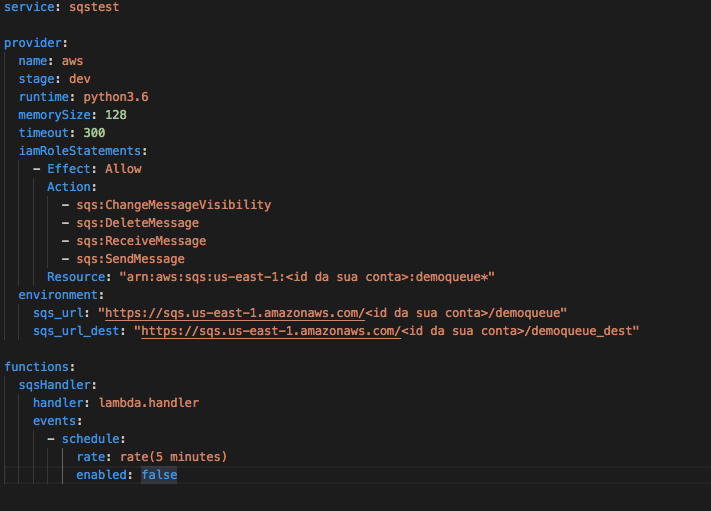
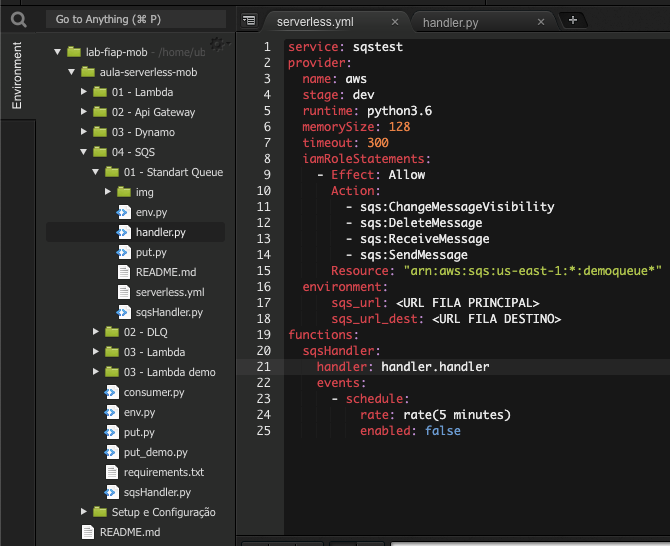
04 SQS 01 Standart Queue

Changed region(s): [[0.0, 0.0, 0.9851, 0.998], [0.5672, 0.9687, 1.0, 1.0]]

diff --git a/04 - SQS/01 - Standart Queue/README.md b/04 - SQS/01 - Standart Queue/README.md
@@ -5,28 +5,32 @@
 ![img/sqs01.png](img/sqs01.png)
 2. Copie o ARN da sua fila. É a terceira informação da sua aba 'Detalhes' quando a fila esta selecionada.
 ### Enviando dados para a fila
-1. 
-
+1. No terminal do IDE criado no cloud9 execute o comando `cd ~/environment/aula-serverless-mob/04\ -\ SQS/01\ -\ Standart\ Queue/` para entrar na pasta que fara este exercicio.
+2. Altere o arquivo put.py adicionando a URL da fila do sqs que criou nos passos anteriores
+![img/sendtoqueue01.png](img/sendtoqueue01.png)
+3. Execute o comando `python3 put.py` no terminal para colocar 3000 mensagens na fila.
+![alt](img/sendtoqueue02.png)
 
 ### Consumindo SQS 
 
 1. Cria mais uma fila sqs com o mesmo nome da anterior com o sulfixo '_dest'
-2. Crie uma pasta chamada 'lambda'
-3. Entre na pasta 'lambda'
-4. Crie um arquivo 'serverless.yml' e coloque o seguinte conteudo:
+2. Execute o comando no terminal `sls create --template "aws-python3"`
+3. Altere o arquivo 'serverless.yml' e coloque o seguinte conteudo, não esqueça de preencher as duas URLs das filas como descrito:
 ![img/lambda-01.png](img/lambda-01.png)
-5. copie os arquivos 'env.py' e 'sqsHandler.py' que estão na raiz do módulo SQS para o diretório 'lambda'
-6. No diretório lambda crie um arquivo 'lambda.py' com o seguinte conteudo
+1. Altere o arquivo 'handler.py' com o seguinte conteudo
 ![img/lambda-02.png](img/lambda-02.png)
 7. rode o comando `sls deploy`
 8. Coloque alguns itens na fila, lembrando que cada execução do lambda criado pode consumir até 1000 posições da fila sqs.
-9. Para execução do lambda rode o comando `sls invoke -l -f sqsHandler`
-10. Caso queira ver os arquivos sendo consumidos da fila automaticamente a cada 5 minutos a regra criado com o serverless precisa ser ativada. Para isso vá ao console do cloudwatch events. Clique em  'Rules' na barra da esquerda.
+9. Para execução do lambda rode o comando `sls invoke -l -f sqsHandler` no terminal
+10. Enquando espera o comando terminar pode observar no painel do SQS as mensagens se movendo a cada atualização manual pelo canto direito superior. Lembre que cada execução move 1000 por definição no código.
+    ![alt](img/lambda-02-1.png)
+11. Caso queira ver os arquivos sendo consumidos da fila automaticamente a cada 5 minutos a regra criado com o serverless precisa ser ativada. Para isso em uma nova aba vá ao console do cloudwatch. Clique em  'Regras' no menu lateral. A regra inativa é marcada por um relógio em cinza.
 ![img/lambda-03.png](img/lambda-03.png)
 11. Clique na regra que foi criada pelo servlerless, então, no cato superior direito clique em 'Actions' e selecione 'Enable'
 ![img/lambda-03.png](img/lambda-04.png)
-12. Na pasta lambda rode o comando `sls remove` para remover o que foi criado.
-13. Vá até o painel do sqs, selecione as 2 filas que utilizou no exercicio, clique em 'Queue Actions' e depois em 'Purge Queues'. Confirme.
+12. Se esperar alguns execuções vai ver que a fila principal vai zerar.
+12. Execute o comando `sls remove` no terminal para remover o que foi criado.
+13. Vá até o painel do sqs, selecione as 2 filas que utilizou no exercicio, clique em 'Ações de fila' e depois em 'Excluir Filas'. Confirme.
 ![img/lambda-05.png](img/lambda-05.png)
 
 
